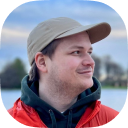
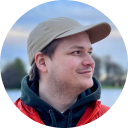
one more

diff --git a/content/fitmost/onboarding/index.md b/content/fitmost/onboarding/index.md
@@ -1,7 +1,7 @@
 ---
-title: "Как мы меняли онбординг"
+title: "Как менялся онбординг"
 date: 2024-12-01T00:07:07+07:00
-description: Делали Lottie анимации, варианты онбординга и сторисы, которые ничего не дали
+description: Делал Lottie-анимации, варианты онбординга и сторисы, которые ничего не дали
 image: /images/fm-onb.png
 caption:
 categories:
